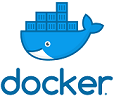
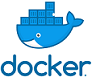
More markdown work.

diff --git a/README.md b/README.md
@@ -1,4 +1,4 @@
-# microcoffeeoncloud - The &micro;Coffee Shop on Spring Cloud Netflix and ![Docker](https://raw.githubusercontent.com/dagbjorn/microcoffeeoncloud/master/docs/images/docker-vertical-small.png "Docker")
+# microcoffeeoncloud - The &micro;Coffee Shop on Spring Cloud Netflix and ![Docker](https://raw.githubusercontent.com/dagbjorn/microcoffeeoncloud/master/docs/images/docker-horizontal-small.png "Docker")
 
 ## Revision log
 
